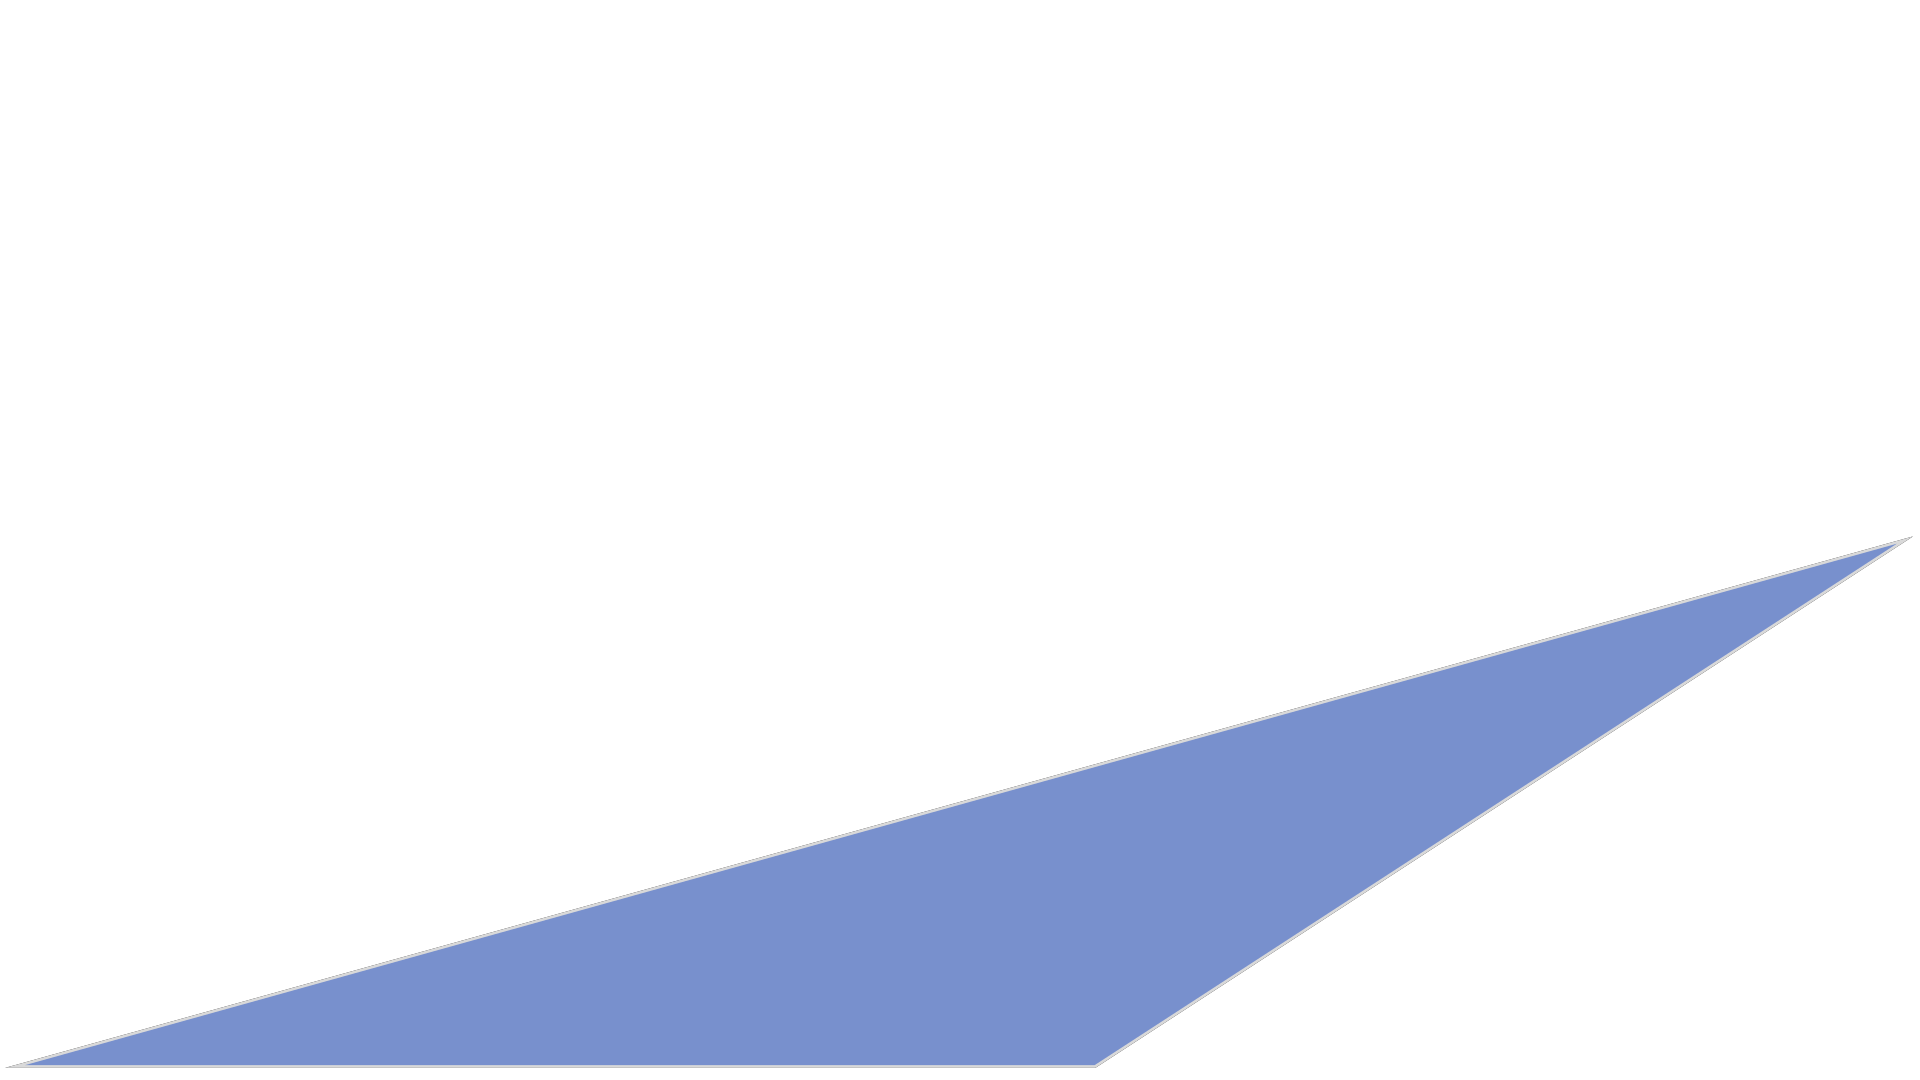
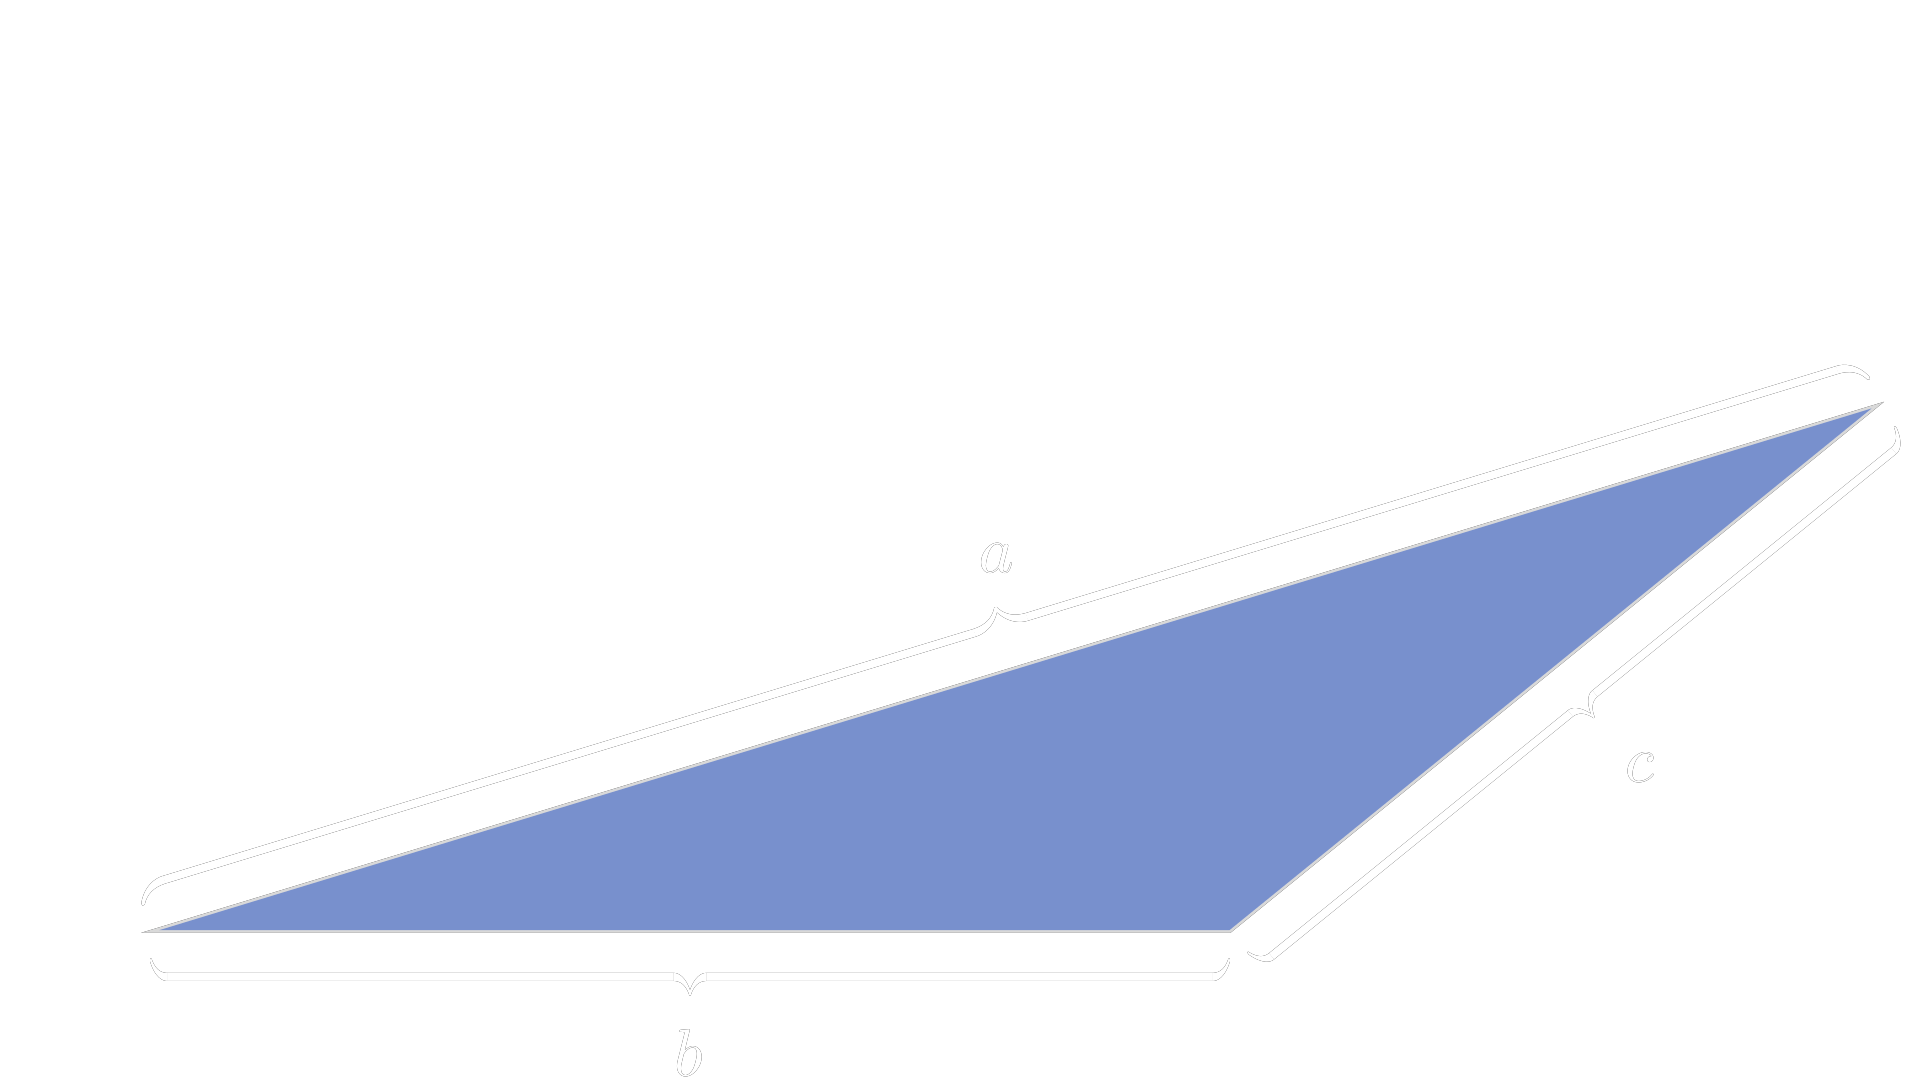
labeled sides

Changed region(s): [[0.0, 0.3667, 0.9688, 1.0], [0.9688, 0.4889, 1.0, 0.5194]]

diff --git a/triangles.py b/triangles.py
@@ -5,16 +5,27 @@ def pt(x, y):
     return np.array([x, y, 0])
 
 
-def triangle(x):
+def triangle(x, shr=0):
     maxy = 3.9
-    polygon = Polygon(
-        pt(0, 0), pt(8, 0), pt(x, maxy),
+    pt1, pt2, pt3 = pt(0, 0), pt(8, 0), pt(x, maxy)
+    tri = Polygon(
+        pt1, pt2, pt3,
         fill_color='#7890CD',
         fill_opacity=1,
         stroke_color='#D9D9D9',
         stroke_width=2,
     )
-    return polygon.shift(pt(-7, -maxy))
+    shift = pt(-7 + 1 + shr, -maxy + 1)
+    tri.shift(shift)
+    brace_b = Brace(Line(pt1, pt2).shift(shift), direction=DOWN)
+    text_b = brace_b.get_tex("b")
+    line_c = Line(pt2, pt3)
+    brace_c = Brace(line_c.shift(shift), direction=line_c.copy().rotate(-PI / 2).get_unit_vector())
+    text_c = brace_c.get_tex("c")
+    line_a = Line(pt3, pt1)
+    brace_a = Brace(line_a.shift(shift), direction=line_a.copy().rotate(-PI / 2).get_unit_vector())
+    text_a = brace_a.get_tex("a")
+    return tri, brace_b, text_b, brace_c, text_c, brace_a, text_a
 
 
 # -7 to 7 x
@@ -22,14 +33,17 @@ def triangle(x):
 
 class Right(Scene):
     def construct(self):
-        self.add(triangle(0))
+        tri, bb, bt, bc, tc, _, _ = triangle(0, shr=1)
+        b2 = Brace(tri, direction=LEFT)
+        t2 = b2.get_tex("h=a")
+        self.add(tri, bb, bt, b2, t2, bc, tc)
 
 
 class Middle(Scene):
     def construct(self):
-        self.add(triangle(6))
+        self.add(*triangle(6))
 
 
 class Obtuse(Scene):
     def construct(self):
-        self.add(triangle(14))
+        self.add(*triangle(12.8))
